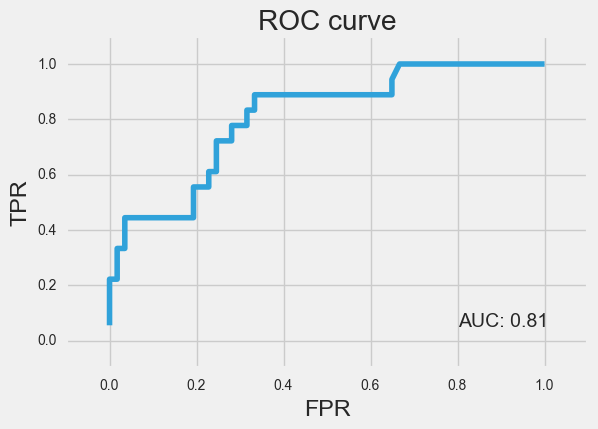
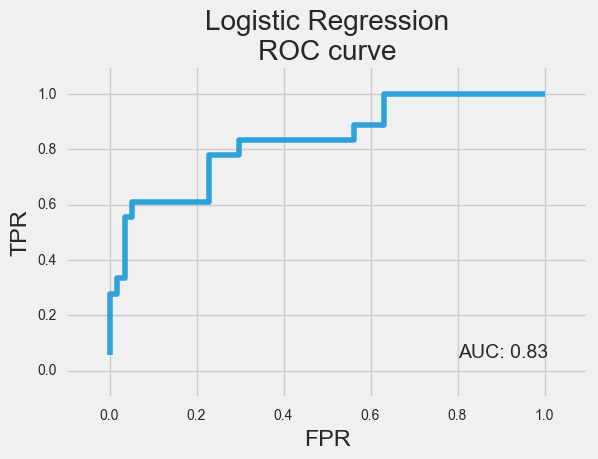
Changes to project 6 post

diff --git a/_posts/2016-11-01-predicting-IMDb-ratings.md b/_posts/2016-11-01-predicting-IMDb-ratings.md
@@ -176,46 +176,91 @@ Before we get to modeling, we'll take a look at the relationships within out dat
 [![director_rating]({{ site.url }}{{ site.baseurl }}/images/imdb/director_rating.png)]({{ site.url }}{{ site.baseurl }}/images/imdb/director_rating.png)
 
 ## Modeling: generating the model and drawing conclusions
-So I tried both regression (predicting actual ratings) and classification (predicting whether a movie will have a rating higher than 8.5) with this dataset.
+So I tried both regression (predicting actual ratings) and classification (predicting whether a movie will have a rating higher than 8.5) with this dataset. I wanted to test several models, so I created a function to evaluate them:
 
 ```python
-# Regression model
-gs3 = model_selection.GridSearchCV(ensemble.GradientBoostingRegressor(random_state=1),
-                                  {"n_estimators": np.arange(50,100,10)},
-                                  cv=5)
-gs3.fit(X_train,yr_train)
+def fit_model(model, name,  X_train, X_test, y_train, y_test, mtype="r"):
+    model.fit(X_train,y_train)
+    y_pred = model.predict(X_test)
+    score = model.score(X_test, y_test)
+    print "{} Score: {:.2f}".format(name, score)
+
+    if mtype=="r":
+        print "{} MSE: {:.2f}".format(name, metrics.mean_squared_error(y_test, y_pred))
+
+    return model, y_pred
 ```
+
+```python
+def evaluate_model(model, name, mtype="r", X=df4.iloc[:, 8:]):
+    print name
+    if mtype=="r":
+        # set X and y
+        y = df4["imdbRating"]
+        X_train, X_test, y_train, y_test = model_selection.train_test_split(X, y, test_size=0.3, random_state=77)
+
+        # fit the model
+        model, y_pred = fit_model(model, name, X_train, X_test, y_train, y_test, mtype)
+
+        # Plotting
+        plt.plot([min(y_test), max(y_test)],[min(y_test), max(y_test)],'-');
+        plt.scatter(y_pred, y_test);
+        plt.title("{}\nActual and predicted ratings".format(name));
+        plt.xlabel("Predicted");
+        plt.ylabel("Actual");
+        plt.show();
+        return model
+
+    elif mtype=="c":
+        # set X and y
+        y_class = df4["rating_higher_8.5"]
+        X_train, X_test, y_train, y_test = model_selection.train_test_split(X, y_class, stratify=y_class,
+                                                                      test_size=0.3, random_state=77)
+
+        # fit the model
+        model, y_pred = fit_model(model, name, X_train, X_test, y_train, y_test, mtype)
+
+        # confusion matrix
+        conmat = metrics.confusion_matrix(y_test, y_pred)
+        conmat = pd.DataFrame(conmat)
+        conmat
+
+        # classification report
+        print metrics.classification_report(y_test, y_pred)
+
+        # plotting
+        try:
+            y_score = model.decision_function(X_test)
+        except:
+            y_score = model.predict_proba(X_test)[:,1]
+
+        fpr, tpr, thresholds = metrics.roc_curve(y_test, y_score)
+        plt.plot(fpr,tpr);
+        plt.title("{}\nROC curve".format(name));
+        plt.ylim((-0.1, 1.1));
+        plt.xlim((-0.1, 1.1));
+        plt.xlabel("FPR");
+        plt.ylabel("TPR");
+        plt.text(0.8,0.05,"AUC: {:0.2f}".format(metrics.roc_auc_score(y_test, y_score)));
+
+        return model, conmat, X, y
+    else:
+        return "Wrong type"
+```
+
+Here's a couple of our plots from the above:
 
 [![regression]({{ site.url }}{{ site.baseurl }}/images/imdb/regression.png)]({{ site.url }}{{ site.baseurl }}/images/imdb/regression.png)
 
-```python
-
-# Classification model
-gs4 = model_selection.GridSearchCV(ensemble.GradientBoostingClassifier(random_state=1),
-                                  {"n_estimators": np.arange(50,100,10),
-                                   "min_samples_split": np.arange(5,10,1),
-                                   "min_samples_leaf": np.arange(5,10,1)},
-                                  cv=5)
-gs4.fit(X_train,yc_train)
-```
-
 [![roc_curve]({{ site.url }}{{ site.baseurl }}/images/imdb/roc_curve.png)]({{ site.url }}{{ site.baseurl }}/images/imdb/roc_curve.png)
 
-With each model we ran our score functions, and regression was terrible. Classification did quite well with an accuracy of about 80%.
+With each model we ran our score functions, and regression was terrible. Classification did quite well with an average accuracy of about 80%.
 
-We then looked at our features using `RFECV` in `sklearn`.
+We also looked at the coefficients of our classification model:
 
-```python
-select = feature_selection.RFECV(gbc2,cv=5)
-select.fit(X_train, yc_train)
-X_train_new = select.transform(X_train)
-```
+[![logreg_coef]({{ site.url }}{{ site.baseurl }}/images/imdb/logreg_coef.png)]({{ site.url }}{{ site.baseurl }}/images/imdb/logreg_coef.png)
 
-We got minimal to no improvement in our score after feature selection:
-
-[![roc_curve_selected]({{ site.url }}{{ site.baseurl }}/images/imdb/roc_curve_selected.png)]({{ site.url }}{{ site.baseurl }}/images/imdb/roc_curve_selected.png)
-
-One of the things that I noted (without the recursive feature elimination) was that:
+One of the things that I noted (before looking at the coefficients) was that:
 
 - Actors don't matter
 - Plot summary doesn't matter
